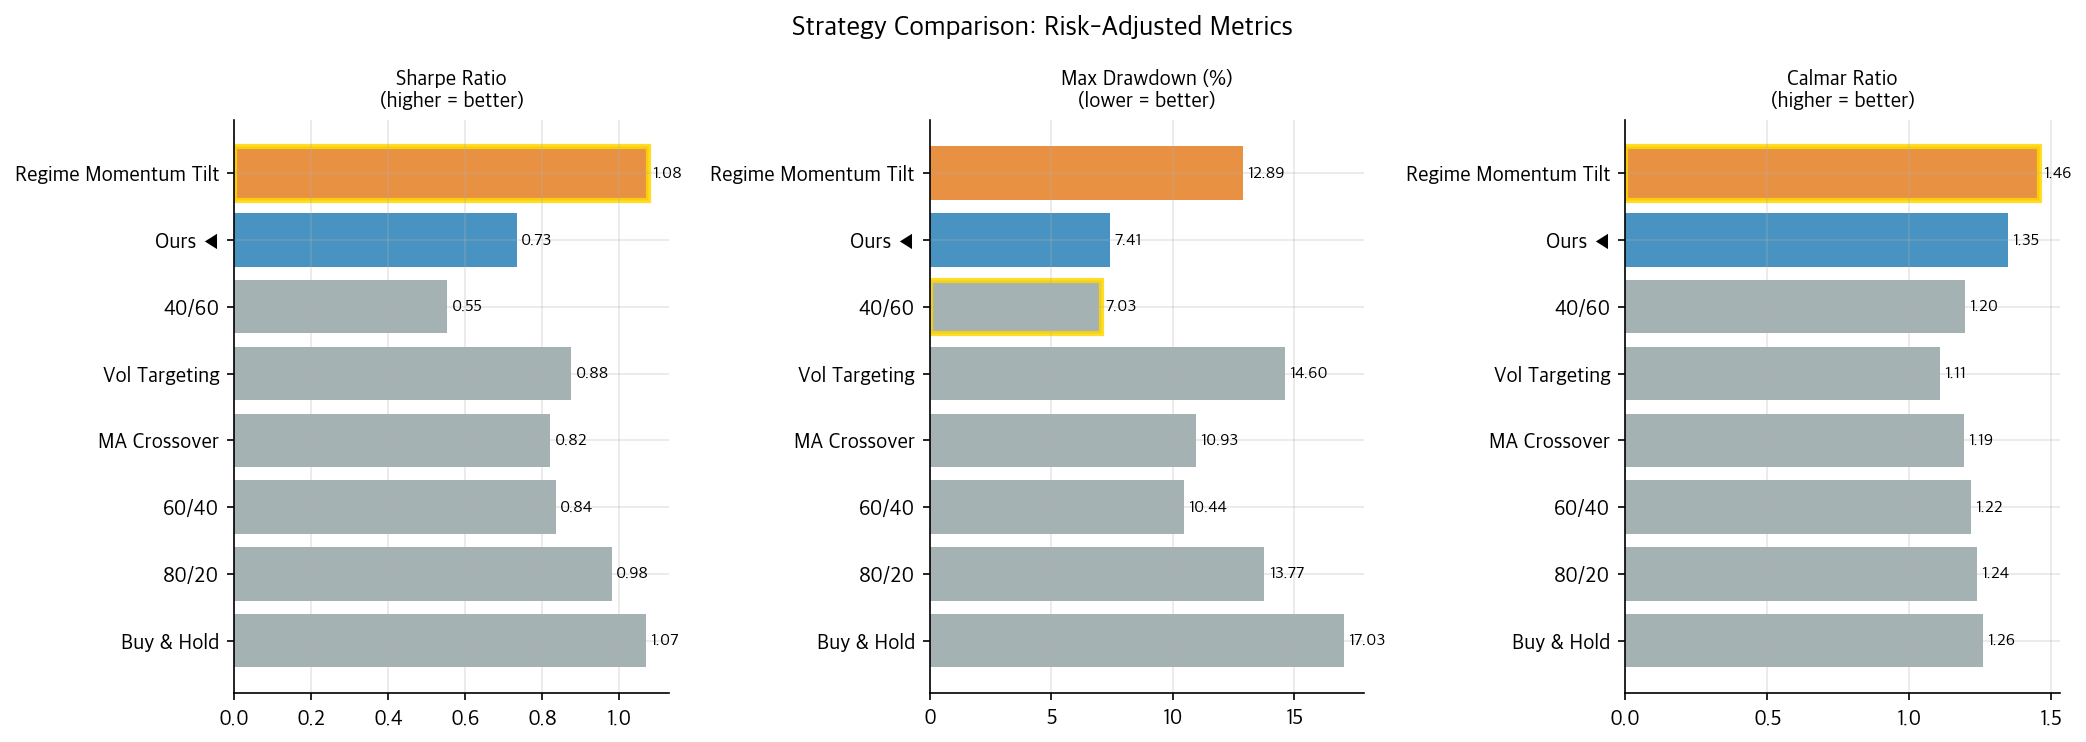
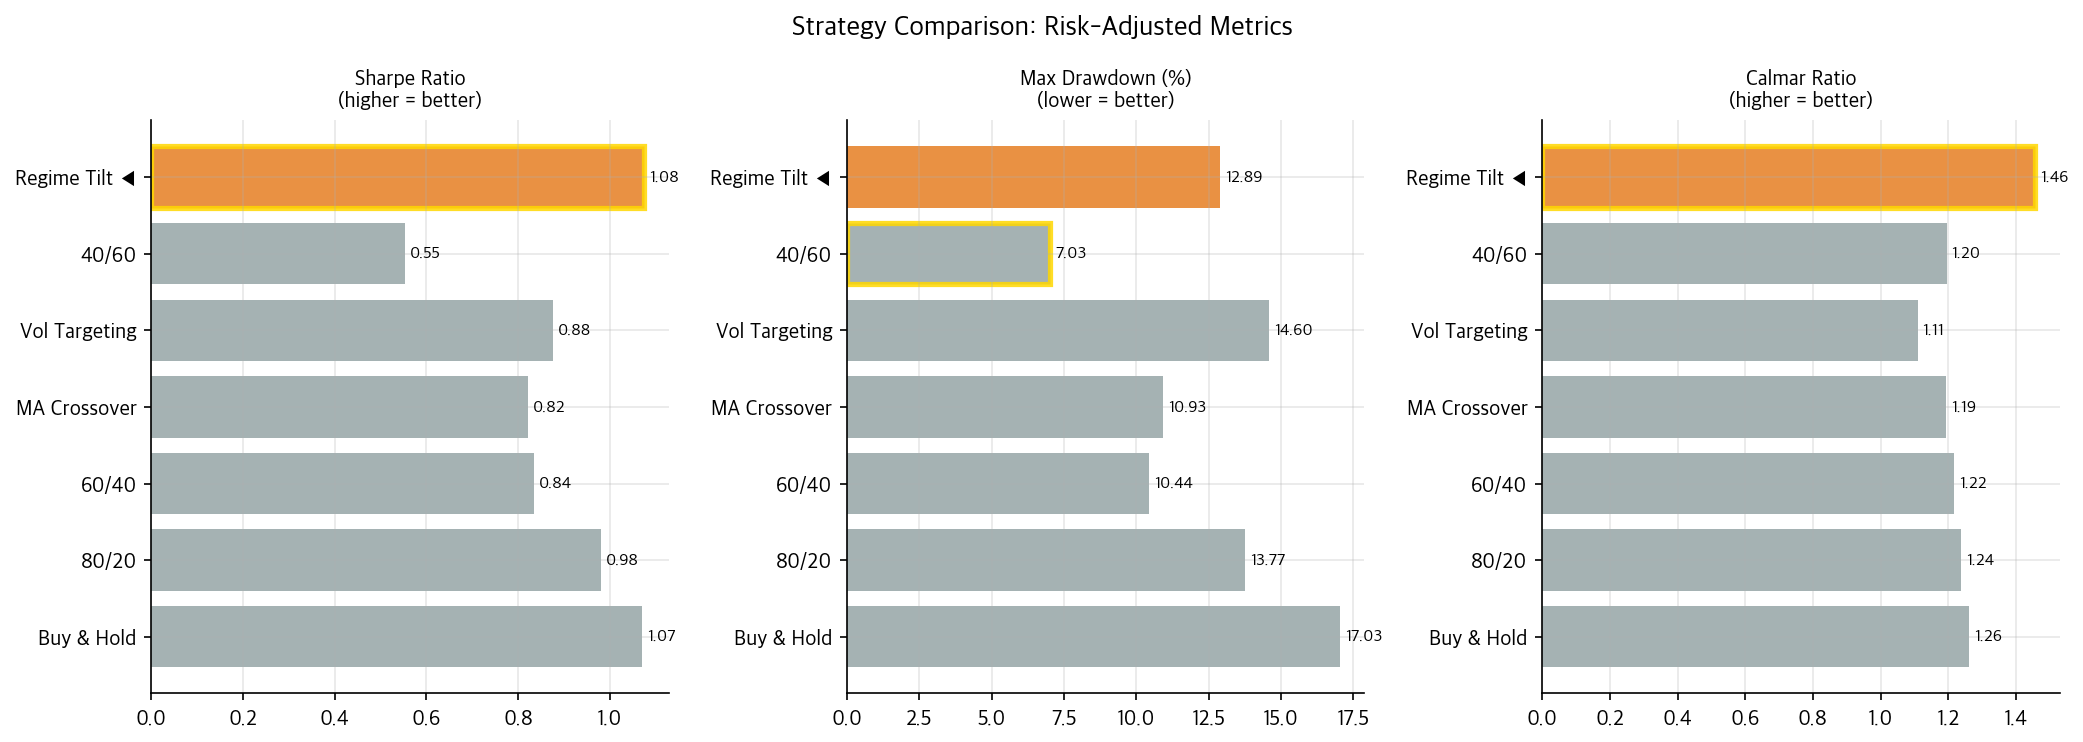
fix: 백테스트 그래프 최종 전략 단일화
- fig2/fig3에서 Conv1D+LSTM SPY/Cash 제거
- Regime Momentum Tilt (ours) 하나로 통일
- 동일 모델 기반이므로 배분 정책 최종본만 표시

diff --git a/scripts/visualize.py b/scripts/visualize.py
@@ -185,14 +185,12 @@ strategies = {
     "Buy & Hold":              np.ones(n),
     "60/40":                   np.full(n, 0.6),
     "MA Crossover":            np.array(ma_weights),
-    "Conv1D+LSTM (ours)":      w_model,
 }
 style = {
-    "Buy & Hold":              ("--", "#2C3E50", 1.5),
-    "60/40":                   ("--", COLORS["gray"], 1.2),
-    "MA Crossover":            (":",  "#8E44AD", 1.2),
-    "Conv1D+LSTM (ours)":      ("-",  COLORS["model"], 2.0),
-    "Regime Momentum Tilt":    ("-",  "#E67E22", 2.5),
+    "Buy & Hold":                    ("--", "#2C3E50", 1.5),
+    "60/40":                         ("--", COLORS["gray"], 1.2),
+    "MA Crossover":                  (":",  "#8E44AD", 1.2),
+    "Regime Momentum Tilt (ours)":   ("-",  "#E67E22", 2.5),
 }
 
 fig, ax = plt.subplots(figsize=(12, 5))
@@ -201,10 +199,10 @@ for name, weights in strategies.items():
     ls, color, lw = style[name]
     ax.plot(range(len(curve)), (curve - 1) * 100,
             linestyle=ls, color=color, linewidth=lw, label=name)
-# Regime Momentum Tilt 별도 추가
-ls, color, lw = style["Regime Momentum Tilt"]
+# 최종 전략 (Regime Momentum Tilt)
+ls, color, lw = style["Regime Momentum Tilt (ours)"]
 ax.plot(range(len(rmt_cum)), (rmt_cum - 1) * 100,
-        linestyle=ls, color=color, linewidth=lw, label="Regime Momentum Tilt")
+        linestyle=ls, color=color, linewidth=lw, label="Regime Momentum Tilt (ours)")
 
 ax.axhline(0, color="black", linewidth=0.5)
 ax.set_xlabel("Rebalancing Period (5-day intervals)")
@@ -231,17 +229,19 @@ with open("outputs/results/backtest_results.json") as f:
 with open("outputs/results/backtest_regime_momentum_results.json") as f:
     bt_rmt = json.load(f)
 
+rmt_data = bt_rmt["Regime Momentum Tilt"]
 strat_order = ["Buy & Hold", "80/20", "60/40", "MA Crossover",
-               "Vol Targeting", "40/60", "Conv1D+LSTM (ours)", "Regime Momentum Tilt"]
-sharpes  = [bt[s]["sharpe"]         if s in bt else bt_rmt.get("Regime Momentum Tilt", {}).get("sharpe", 0) for s in strat_order]
-mdds     = [abs(bt[s]["mdd"]) * 100 if s in bt else abs(bt_rmt.get("Regime Momentum Tilt", {}).get("mdd", 0)) * 100 for s in strat_order]
-calmars  = [bt[s]["calmar"]         if s in bt else bt_rmt.get("Regime Momentum Tilt", {}).get("calmar", 0) for s in strat_order]
-bar_colors = ["#E67E22" if s == "Regime Momentum Tilt" else COLORS["model"] if "LSTM" in s else COLORS["gray"] for s in strat_order]
+               "Vol Targeting", "40/60", "Regime Momentum Tilt (ours)"]
+all_data = {**bt, "Regime Momentum Tilt (ours)": rmt_data}
+sharpes  = [all_data[s]["sharpe"]         for s in strat_order]
+mdds     = [abs(all_data[s]["mdd"]) * 100 for s in strat_order]
+calmars  = [all_data[s]["calmar"]         for s in strat_order]
+bar_colors = ["#E67E22" if "Regime" in s else COLORS["gray"] for s in strat_order]
 
 fig, axes = plt.subplots(1, 3, figsize=(14, 5))
 fig.suptitle("Strategy Comparison: Risk-Adjusted Metrics", fontsize=13, fontweight="bold")
 
-short_names = [s.replace("Conv1D+LSTM (ours)", "Ours ◀") for s in strat_order]
+short_names = [s.replace("Regime Momentum Tilt (ours)", "Regime Tilt ◀") for s in strat_order]
 
 for ax, values, title, higher_better in zip(
     axes,